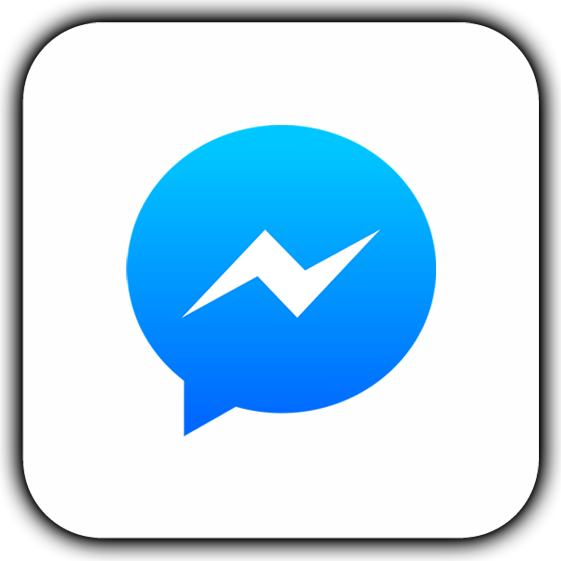
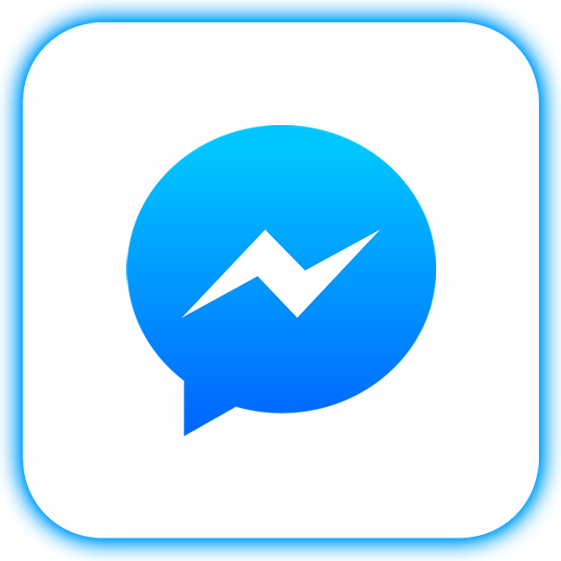
mejorando boton chat7

Changed region(s): [[0.0, 0.0, 1.0, 1.0]]

diff --git a/css/estilo_img.css b/css/estilo_img.css
@@ -59,6 +59,9 @@
         background-color: rgb(253, 253, 253);
         display: none;
     }
+    .chat-messenger{
+        display: none;
+    }
 
 
     /*ZOOM DE IMAGENES*/
@@ -115,9 +118,9 @@
         max-width: 340px;        
         position: fixed;
         bottom: 0;
-        right: 0;     
-        left: 0;   
+        right: 0;               
         z-index: 999;
+        
     }
     .chat-button{
         width: 100%;
@@ -128,7 +131,7 @@
         background-color: #337AB7;
         text-align: center;
         color: #fff;
-        
+        display: none;
     }
     .chat-content{        
         margin: 0;
@@ -138,14 +141,14 @@
     }
     /*ICONO MESSENGER*/
     .chat-messenger{
-        display: none;
+        display: show;
         margin: 0;
         padding: 0;
         width: 100%;
         max-width: 340px;
         height: auto;
         position: fixed;
-        bottom: 0;
+        bottom: 100px;
         right: 10px;
         z-index: 999;
         
@@ -185,6 +188,13 @@
         position: absolute;
         right: 10px;
         top: 10px;
+    }
+
+    footer{
+        background:black;
+        color: white;
+        padding: 5px;
+        padding-left: 15px;
     }
     
 

diff --git a/index.html b/index.html
@@ -518,7 +518,7 @@
         </div>
     </section>
 
-    <img class="chat-messenger" style="cursor:pointer; height:50px;width:50px" src="img/messenger.png">
+    <img class="chat-messenger" style="cursor:pointer; height:50px;width:50px" src="img/messenger2.png">
     
     
     <footer>
